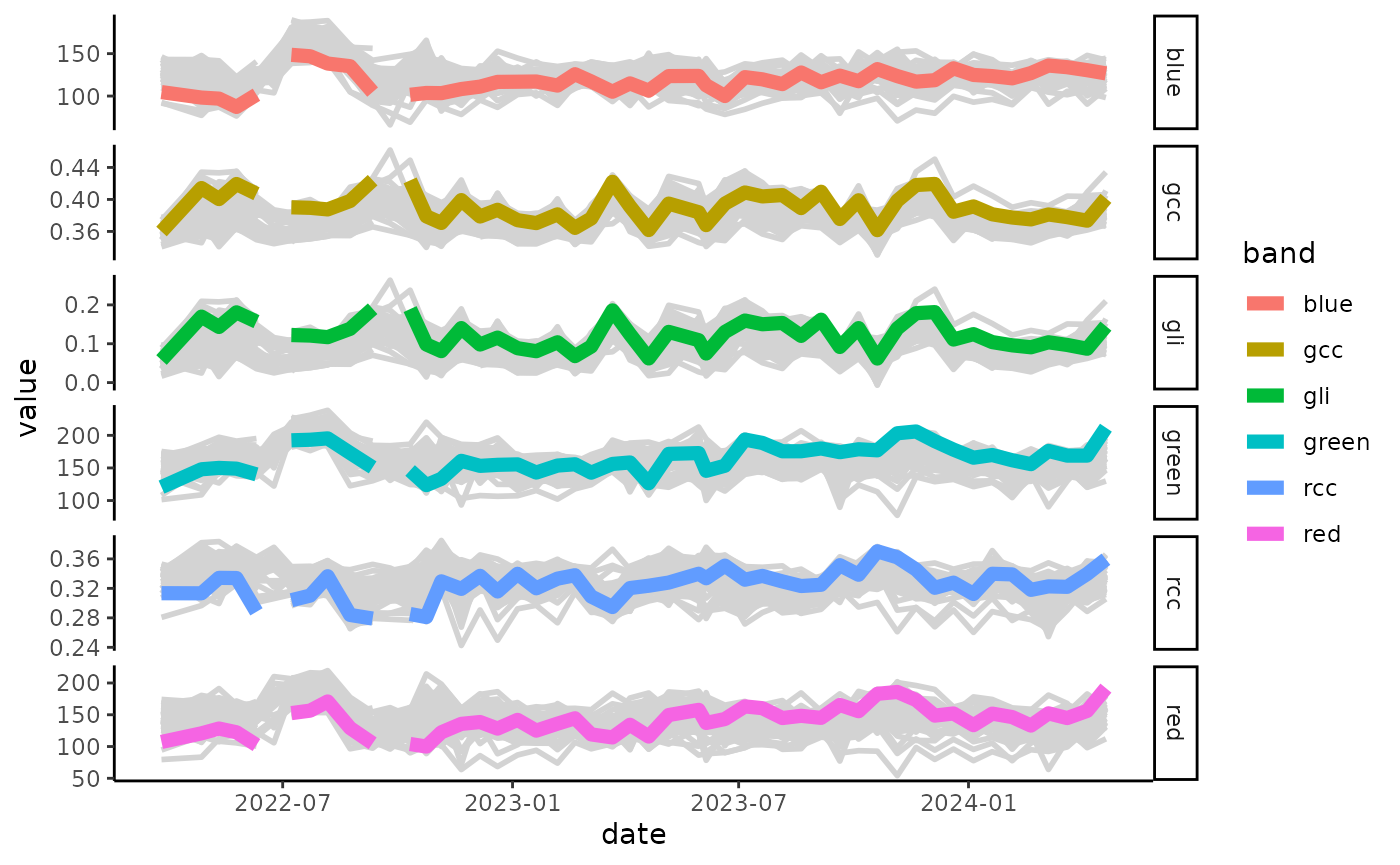
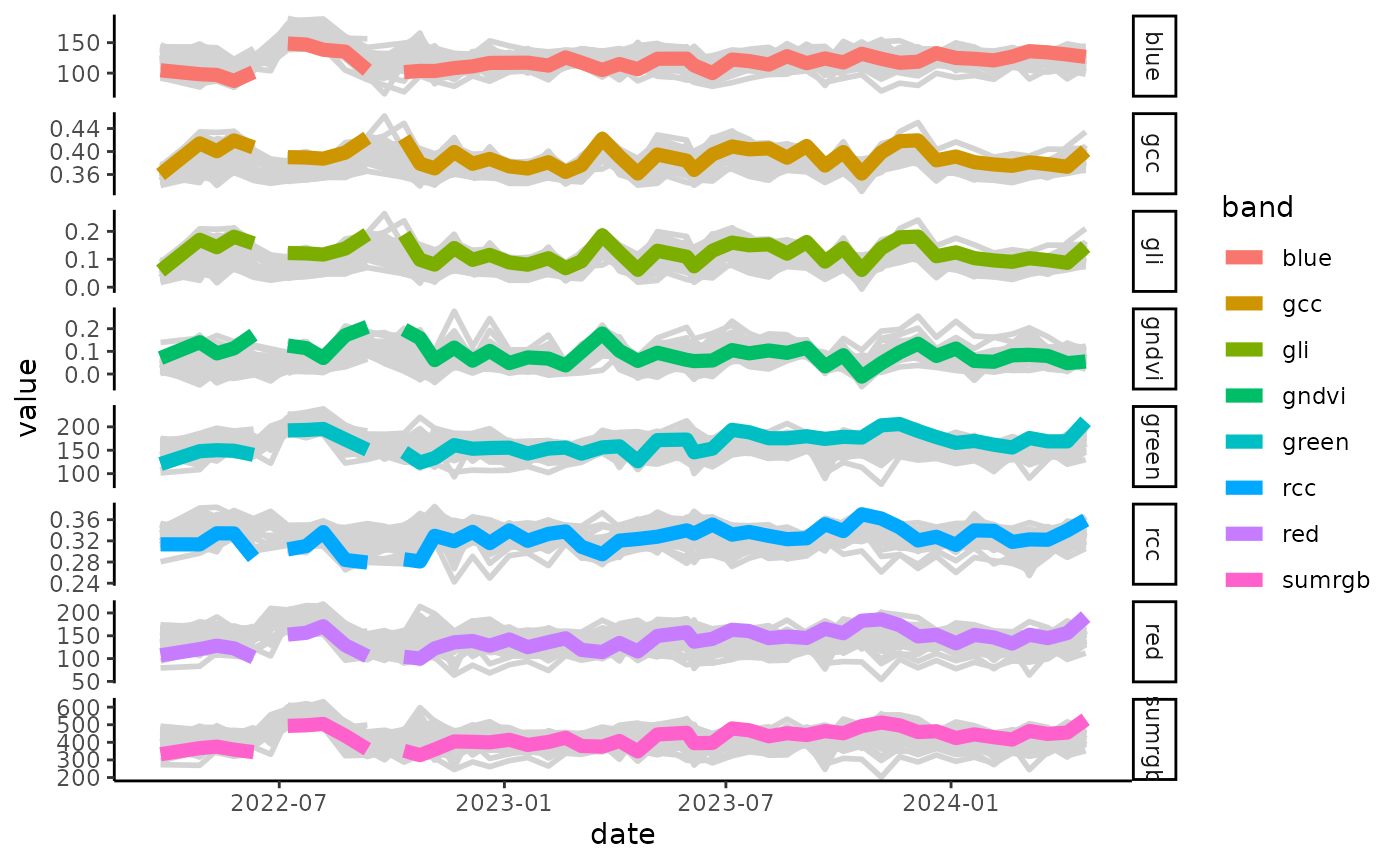
Deploying to gh-pages from @ umr-amap/canObsR@129f9afeaea75048b2c8008e9eee2a12257e7dbc 🚀

diff --git a/reference/merge_values.html b/reference/merge_values.html
@@ -94,7 +94,7 @@ values.</p>
 <span class="r-wrn co"><span class="r-pr">#&gt;</span> <span class="warning">Warning: </span>data set ‘"data_labeling"’ not found</span>
 <span class="r-in"><span><span class="fu"><a href="https://rdrr.io/r/utils/data.html" class="external-link">data</a></span><span class="op">(</span><span class="st">'data_labeling'</span><span class="op">)</span></span></span>
 <span class="r-in"><span><span class="fu">merge_values</span><span class="op">(</span><span class="va">data_labeling</span>,<span class="va">rgb_data</span><span class="op">)</span></span></span>
-<span class="r-out co"><span class="r-pr">#&gt;</span> <span style="color: #949494;"># A tibble: 225,888 × 17</span></span>
+<span class="r-out co"><span class="r-pr">#&gt;</span> <span style="color: #949494;"># A tibble: 263,536 × 17</span></span>
 <span class="r-out co"><span class="r-pr">#&gt;</span>    site       id date       family   genus species phenophase type  metric band </span>
 <span class="r-out co"><span class="r-pr">#&gt;</span>    <span style="color: #949494; font-style: italic;">&lt;fct&gt;</span>   <span style="color: #949494; font-style: italic;">&lt;int&gt;</span> <span style="color: #949494; font-style: italic;">&lt;date&gt;</span>     <span style="color: #949494; font-style: italic;">&lt;fct&gt;</span>    <span style="color: #949494; font-style: italic;">&lt;fct&gt;</span> <span style="color: #949494; font-style: italic;">&lt;fct&gt;</span>   <span style="color: #949494; font-style: italic;">&lt;chr&gt;</span>      <span style="color: #949494; font-style: italic;">&lt;fct&gt;</span> <span style="color: #949494; font-style: italic;">&lt;fct&gt;</span>  <span style="color: #949494; font-style: italic;">&lt;fct&gt;</span></span>
 <span class="r-out co"><span class="r-pr">#&gt;</span> <span style="color: #BCBCBC;"> 1</span> Bouamir   894 2022-03-26 Combret… Term… Termin… L/D        RGB   mean   red  </span>
@@ -107,7 +107,7 @@ values.</p>
 <span class="r-out co"><span class="r-pr">#&gt;</span> <span style="color: #BCBCBC;"> 8</span> Bouamir   901 2022-03-26 Lecythi… Pete… Peters… L          RGB   mean   red  </span>
 <span class="r-out co"><span class="r-pr">#&gt;</span> <span style="color: #BCBCBC;"> 9</span> Bouamir   930 2022-03-26 Irvingi… Desb… Desbor… <span style="color: #BB0000;">NA</span>         RGB   mean   red  </span>
 <span class="r-out co"><span class="r-pr">#&gt;</span> <span style="color: #BCBCBC;">10</span> Bouamir   931 2022-03-26 Fabaceae Pter… Pteroc… L          RGB   mean   red  </span>
-<span class="r-out co"><span class="r-pr">#&gt;</span> <span style="color: #949494;"># ℹ 225,878 more rows</span></span>
+<span class="r-out co"><span class="r-pr">#&gt;</span> <span style="color: #949494;"># ℹ 263,526 more rows</span></span>
 <span class="r-out co"><span class="r-pr">#&gt;</span> <span style="color: #949494;"># ℹ 7 more variables: value &lt;dbl&gt;, plot_name &lt;fct&gt;, code_sp &lt;dbl&gt;, obs &lt;chr&gt;,</span></span>
 <span class="r-out co"><span class="r-pr">#&gt;</span> <span style="color: #949494;">#   comments &lt;chr&gt;, update &lt;chr&gt;, Usable_crown &lt;chr&gt;</span></span>
 <span class="r-in"><span></span></span>

diff --git a/articles/workflow.html b/articles/workflow.html
@@ -203,10 +203,13 @@
 <code class="sourceCode R"><span><span class="fu"><a href="../reference/plot_signal.html">plot_signal</a></span><span class="op">(</span>data <span class="op">=</span> <span class="va">merge_data</span>, Genus <span class="op">=</span> <span class="st">'Desbordesia'</span>, slcted_id <span class="op">=</span> <span class="fl">2614</span><span class="op">)</span></span></code></pre></div>
 <p><img src="workflow_files/figure-html/unnamed-chunk-3-4.png" width="700"></p>
 <div class="sourceCode" id="cb5"><pre class="downlit sourceCode r">
-<code class="sourceCode R"><span><span class="fu"><a href="../reference/plot_signal.html">plot_signal</a></span><span class="op">(</span>data <span class="op">=</span> <span class="va">merge_data</span>, Genus <span class="op">=</span> <span class="st">'Desbordesia'</span>, slcted_id <span class="op">=</span> <span class="fl">936</span>, Band <span class="op">=</span> <span class="st">'gli'</span>, show_Labels <span class="op">=</span> <span class="cn">TRUE</span><span class="op">)</span></span>
+<code class="sourceCode R"><span><span class="fu"><a href="../reference/plot_signal.html">plot_signal</a></span><span class="op">(</span>data <span class="op">=</span> <span class="va">merge_data</span>, Genus <span class="op">=</span> <span class="st">'Desbordesia'</span>, slcted_id <span class="op">=</span> <span class="fl">2614</span>, Band <span class="op">=</span> <span class="fu"><a href="https://rdrr.io/r/base/c.html" class="external-link">c</a></span><span class="op">(</span><span class="st">'gndvi'</span>,<span class="st">'gli'</span><span class="op">)</span><span class="op">)</span></span></code></pre></div>
+<p><img src="workflow_files/figure-html/unnamed-chunk-3-5.png" width="700"></p>
+<div class="sourceCode" id="cb6"><pre class="downlit sourceCode r">
+<code class="sourceCode R"><span><span class="fu"><a href="../reference/plot_signal.html">plot_signal</a></span><span class="op">(</span>data <span class="op">=</span> <span class="va">merge_data</span>, Genus <span class="op">=</span> <span class="st">'Desbordesia'</span>, slcted_id <span class="op">=</span> <span class="fl">936</span>, Band <span class="op">=</span> <span class="fu"><a href="https://rdrr.io/r/base/c.html" class="external-link">c</a></span><span class="op">(</span><span class="st">'gndvi'</span>,<span class="st">'gli'</span><span class="op">)</span>, show_Labels <span class="op">=</span> <span class="cn">TRUE</span><span class="op">)</span></span>
 <span><span class="co">#&gt; Warning in ggplot2::geom_point(data = dplyr::filter(data, highlight ==</span></span>
 <span><span class="co">#&gt; paste(slcted_id)), : Ignoring unknown parameters: `fontface`</span></span></code></pre></div>
-<p><img src="workflow_files/figure-html/unnamed-chunk-3-5.png" width="700"></p>
+<p><img src="workflow_files/figure-html/unnamed-chunk-3-6.png" width="700"></p>
   </main>
 </div>
 
